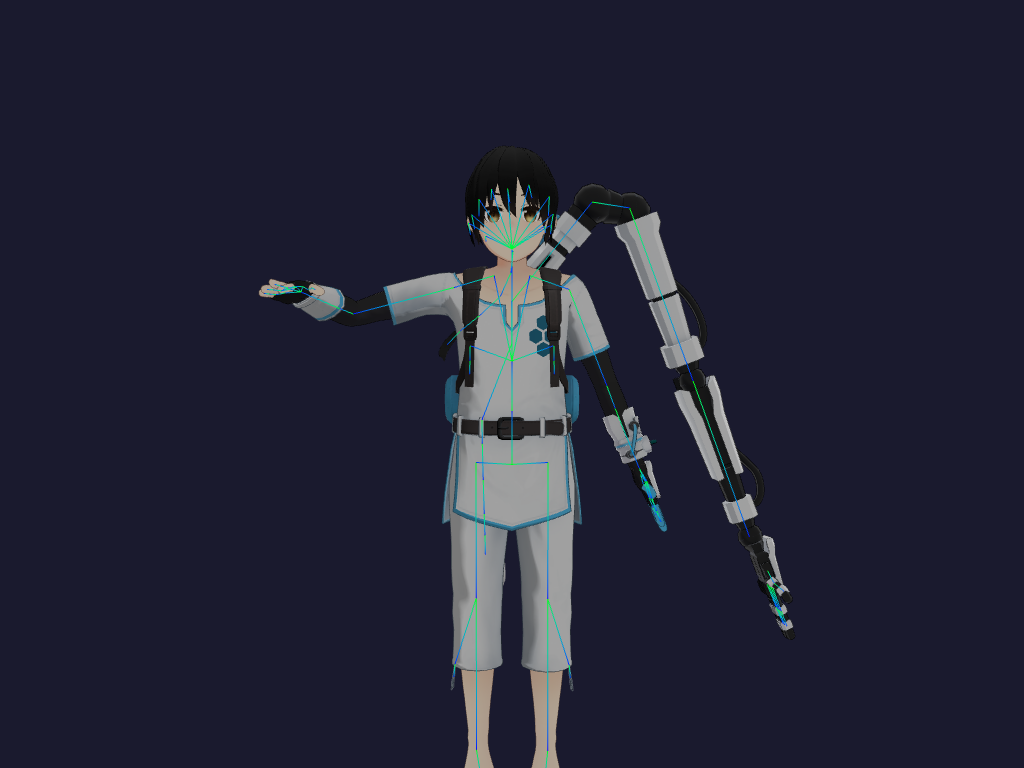
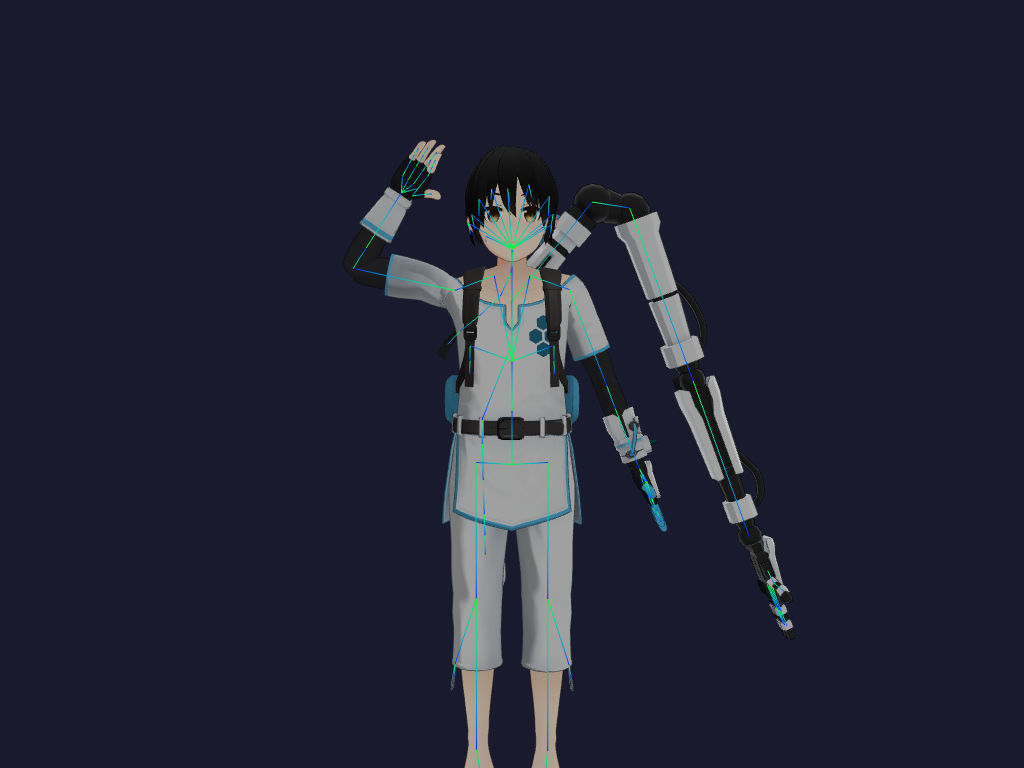
Fix smoking motion - hand now reaches mouth correctly

Changed region(s): [[0.3438, 0.1875, 0.4688, 0.4375], [0.25, 0.3438, 0.3438, 0.4375]]

diff --git a/packages/motion-dsl/src/motions/smoking-cigarette.ts b/packages/motion-dsl/src/motions/smoking-cigarette.ts
@@ -417,12 +417,12 @@ export function createSmokingCigarette(params: SmokingCigaretteInput = {}): Moti
       const idleElbow = 0.3 * intensity   // Slight bend
       const idleWrist = 0.1 * handSide    // Slight rotation
 
-      // Raised position (at mouth)
-      const raisedArmX = -0.5 * intensity  // Forward flexion to bring to mouth
-      const raisedArmY = 0.4 * intensity   // Abducted
-      const raisedArmZ = handSide * 0.2 * intensity  // Twist toward face
-      const raisedElbow = 1.4 * intensity  // Fully bent
-      const raisedWrist = handSide * 0.3   // Rotated for cigarette
+      // Raised position (at mouth) - arm must come forward AND inward to reach face
+      const raisedArmX = -1.1 * intensity  // Less forward flexion = lower hand
+      const raisedArmY = -0.6 * intensity  // Inward toward mouth centerline
+      const raisedArmZ = handSide * 0.2 * intensity  // Slight twist
+      const raisedElbow = 2.7 * intensity  // Very bent elbow to bring hand to mouth
+      const raisedWrist = handSide * 0.4   // Rotated for cigarette at lips
 
       // Blend between idle and raised based on STAGGERED envelopes
       // Shoulder leads, elbow follows, wrist trails
@@ -471,8 +471,8 @@ export function createSmokingCigarette(params: SmokingCigaretteInput = {}): Moti
 
       // Upper arm rotation
       // Base arm-down from T-pose: handSide * 1.2 gives correct direction for smoking arm
-      // But reduce it when arm is raised to smoke (use armUpEnv to blend)
-      const smokingArmDown = handSide * 1.2 * (1 - armUpEnv * 0.7)
+      // But reduce it significantly when arm is raised to smoke - arm needs to come forward, not down
+      const smokingArmDown = handSide * 1.2 * (1 - armUpEnv * 0.95)
       if (rig.hasBone(upperArmBone)) {
         const upperArmRot = quatFromAxisAngle({ x: 0, y: 0, z: 1 }, smokingArmDown)
         upperArmRot.multiply(quatFromAxisAngle({ x: 1, y: 0, z: 0 }, smoothArmX))
